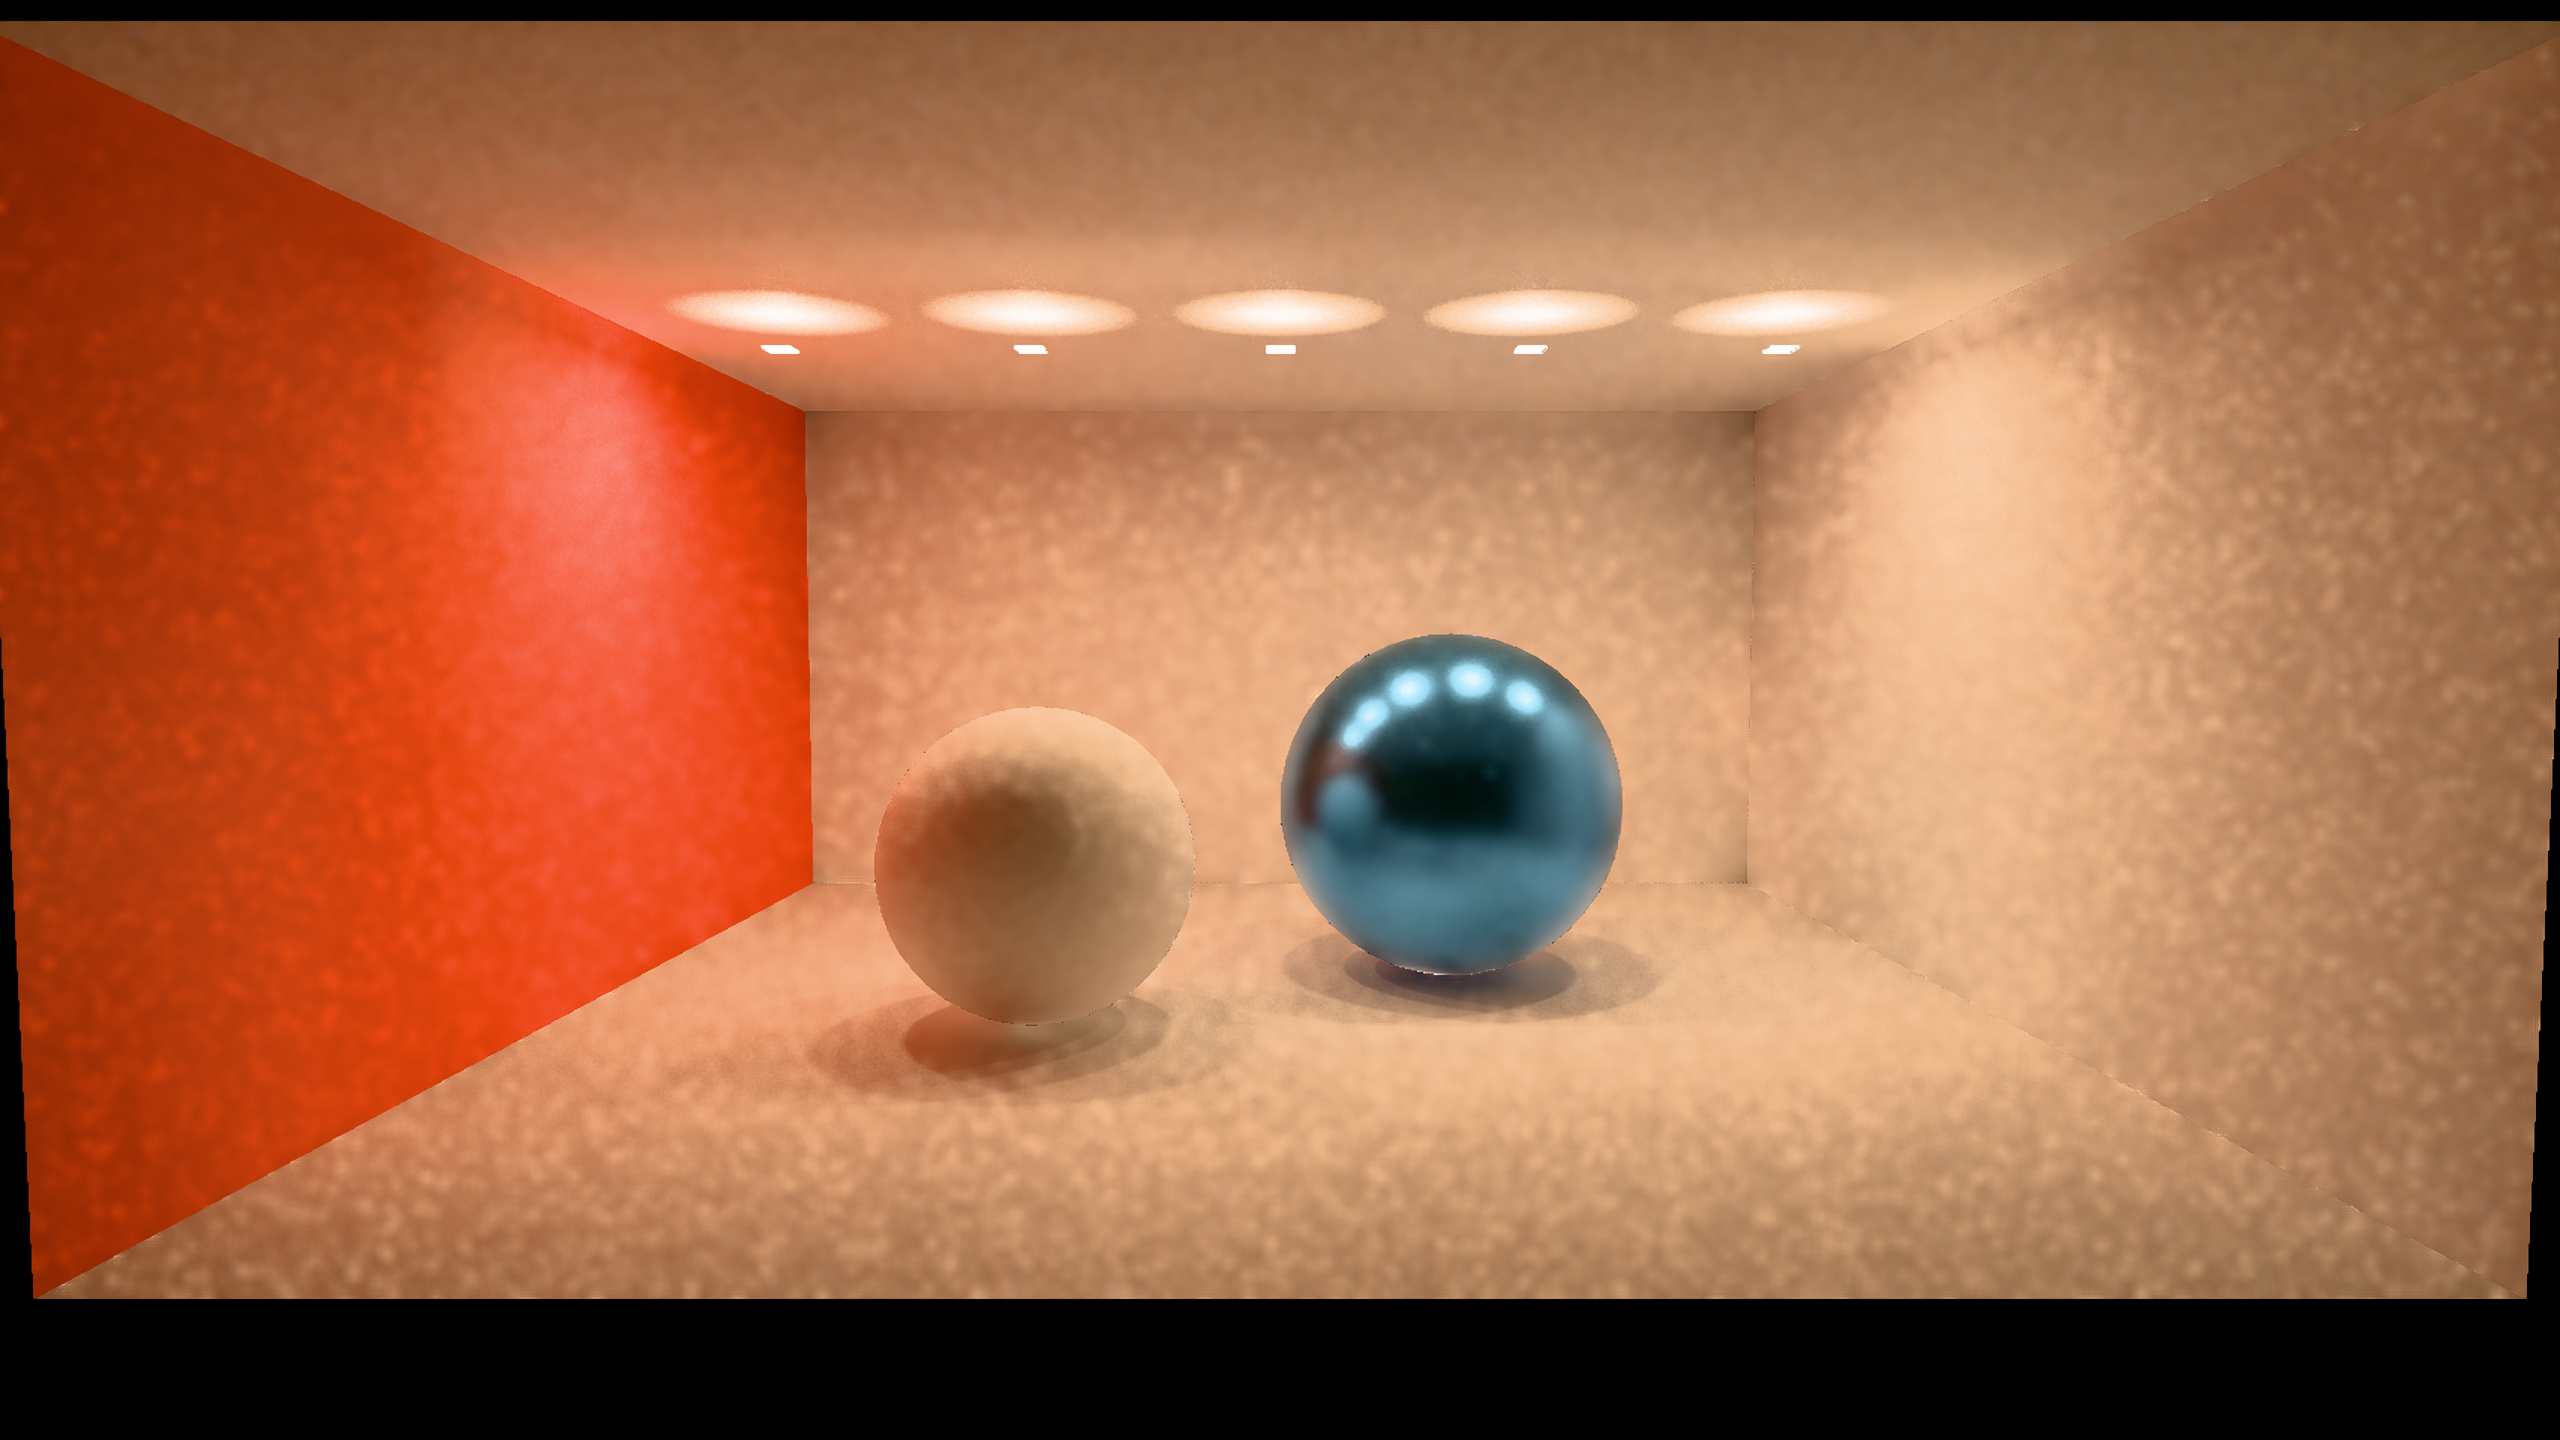
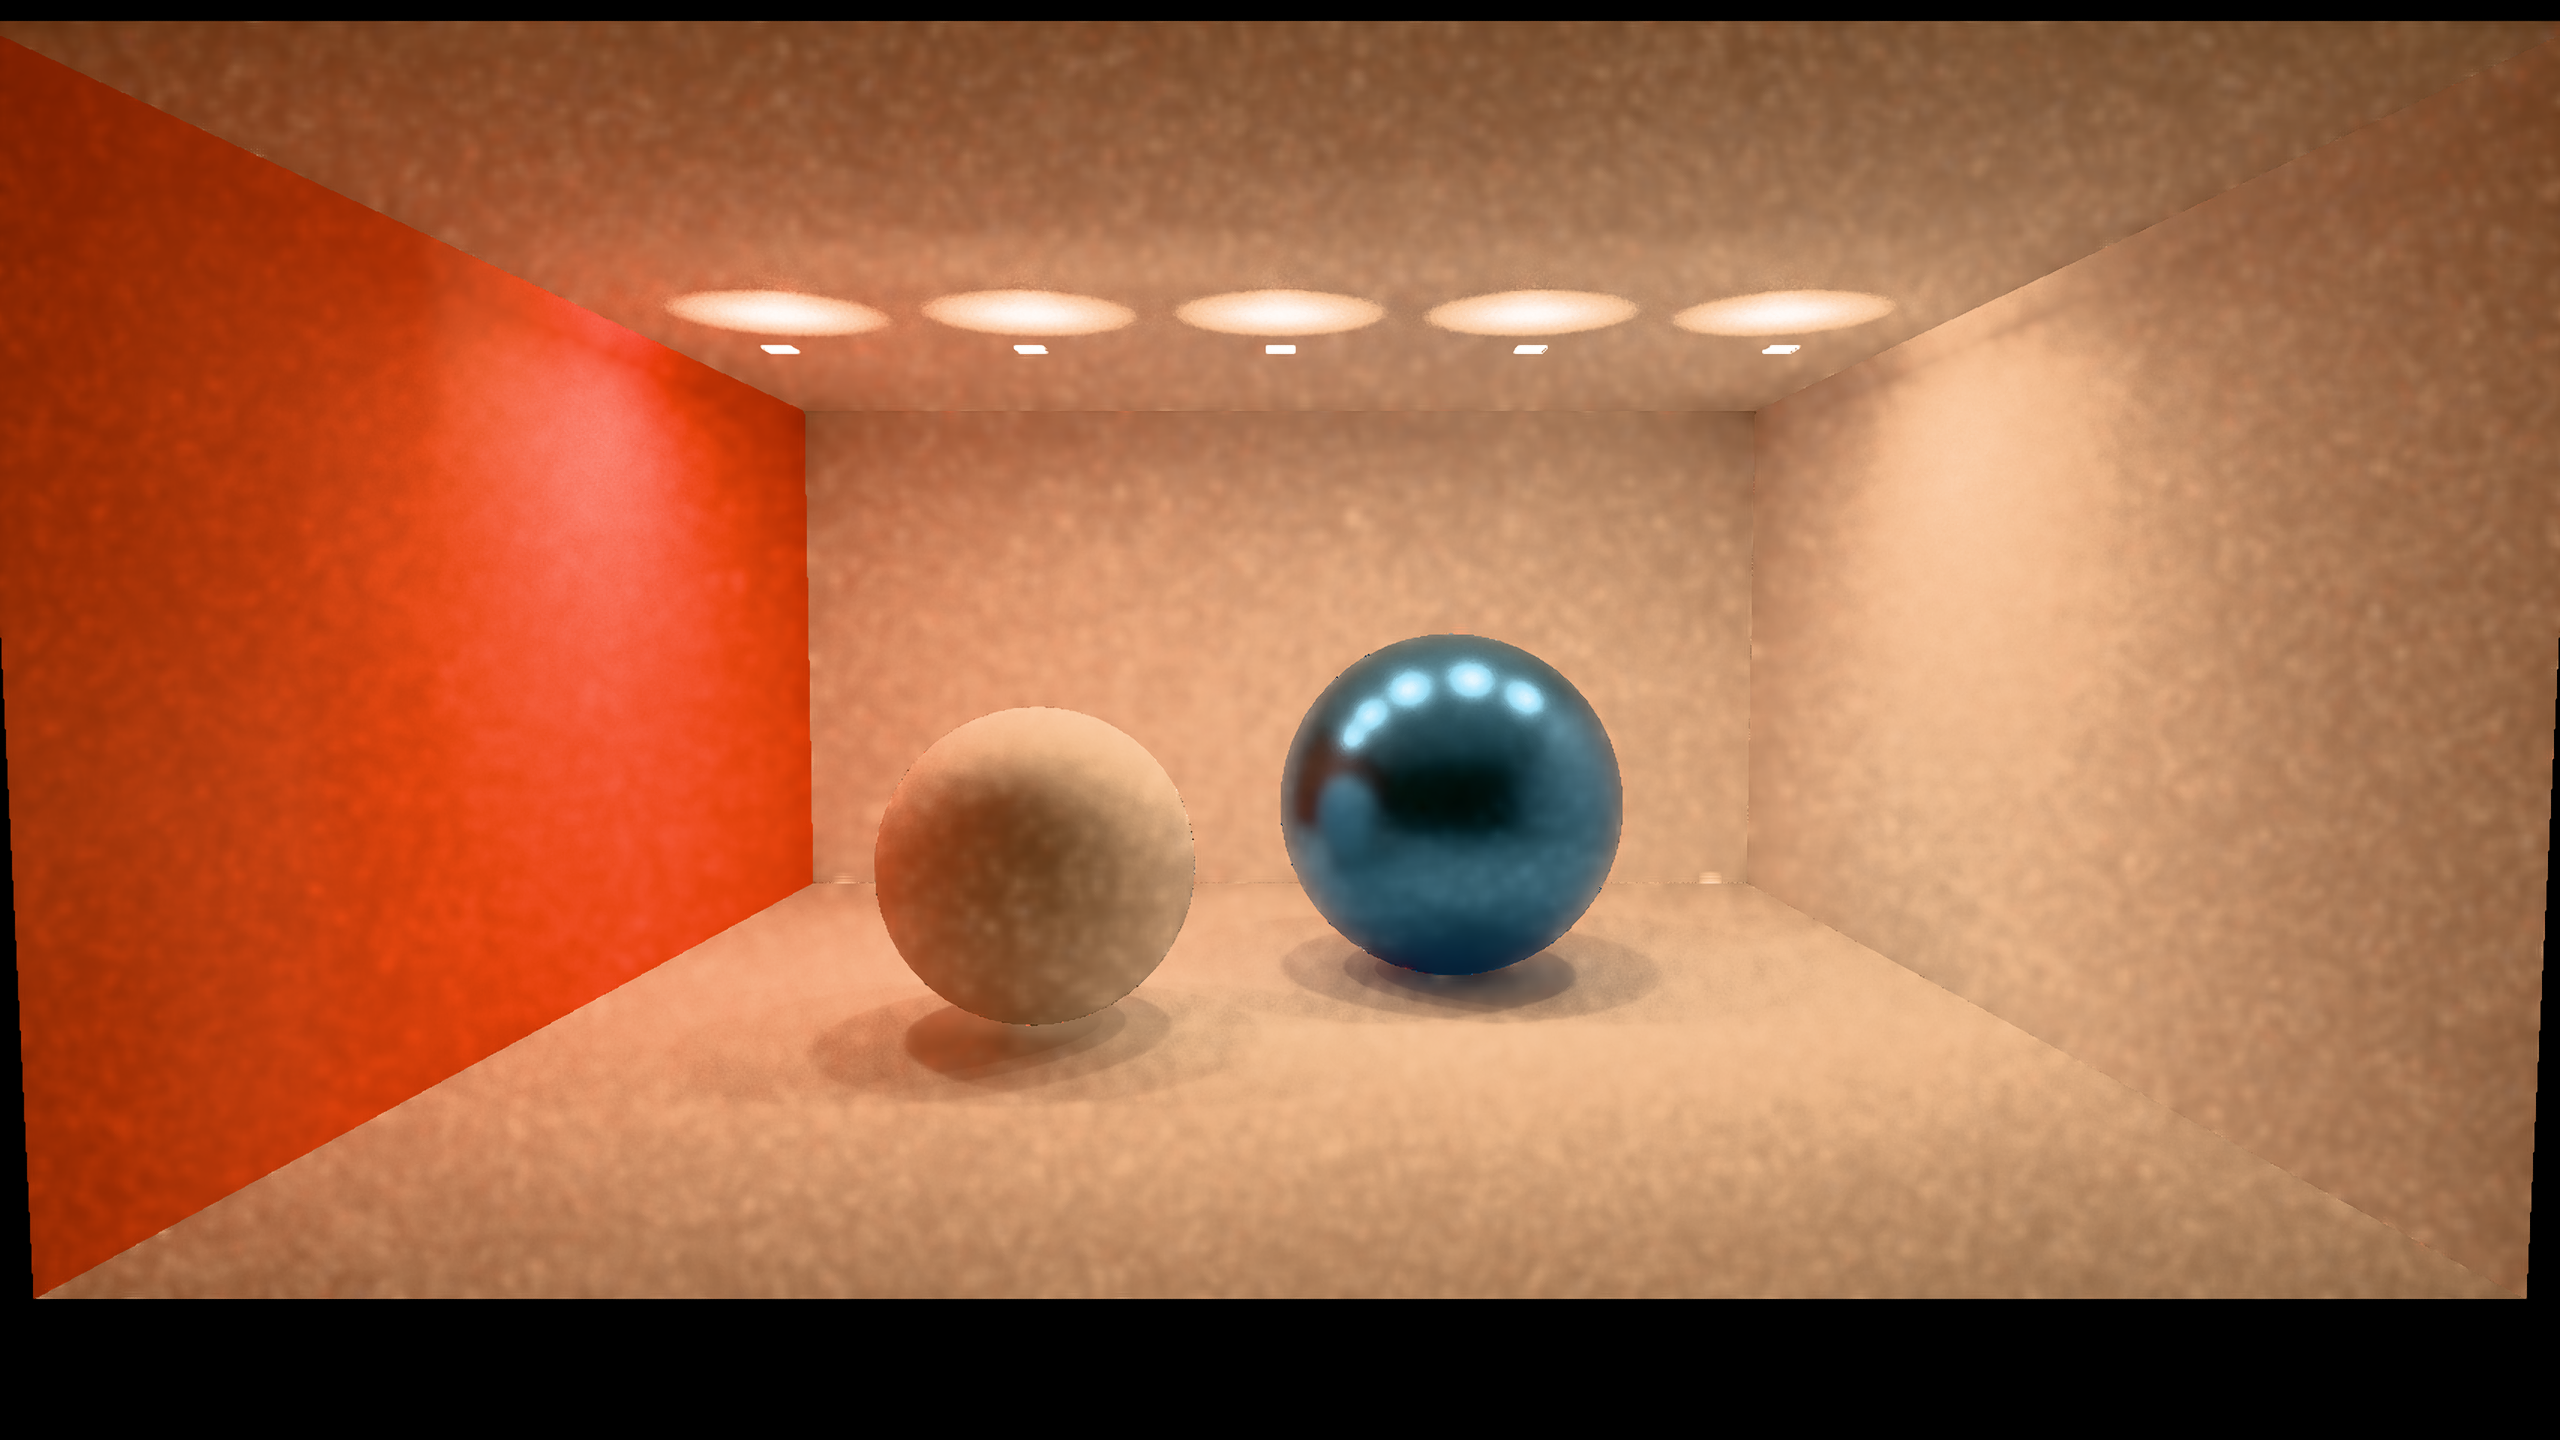
perf(render): spend night scene headroom on denser emitter gathers

diff --git a/crates/ara-pathtrace/src/robust_scenes.rs b/crates/ara-pathtrace/src/robust_scenes.rs
@@ -11,8 +11,10 @@ pub fn configure_view(
     view: &mut ara_render_fidelity::FidelityView,
     outdoor: bool,
 ) -> Result<()> {
-    view.set_gather_events(1)?;
-    view.set_transport_stride(4)?;
+    // Sparse emitters need more short-range paths than the smooth daylight sky.
+    // Spend the small-room budget on two events and half-rate rather than quarter-rate rays.
+    view.set_gather_events(if outdoor { 1 } else { 2 })?;
+    view.set_transport_stride(if outdoor { 4 } else { 2 })?;
     if outdoor {
         view.set_atmosphere(Some(Default::default()))?;
         view.set_probe_volume(
